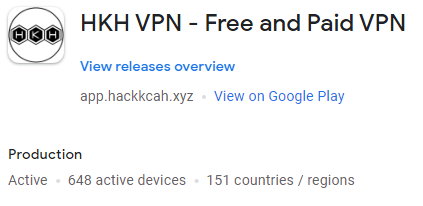
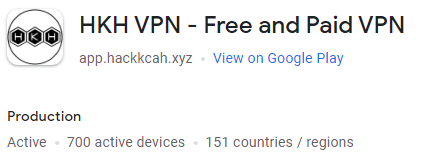
700 users app

diff --git a/index.html b/index.html
@@ -129,7 +129,7 @@
 															<a target="_blank" href="https://bit.ly/321Fea9"><c>LINK</c></a></br></br></br>
 
 															<div class="app"><img src="images/app.png"/></div>
-															<c>Aplicativo desenvolvido e postado na playstore com 650 usuarios ativos:</c></br>
+															<c>Aplicativo desenvolvido e postado na playstore com 700 usuarios ativos:</c></br>
 															<a target="_blank" href="https://bit.ly/37oCmqY"><c>LINK</c></a></br></br></br>
 
 															<div class="bot"><img src="images/bot.png"/></div>
@@ -139,7 +139,7 @@
 															<c>Este portfolio responsivo</c></br>
 															<a target="_blank" href="https://bit.ly/388MZ0k"><c>LINK</c><a/></br></br></br>
 
-															<c>Sistema de gereciamento autonomo de servidores em PHP e ShellScript:</c></br></br>
+															<c>Sistema de gereciamento autonomo de servidores em PHP e ShellScript:</c></br>
 															<c>SEM LINK</c></br></br>
 
 															<c>Experiencia com gerenciamente e manutenção em DB:</c></br>
